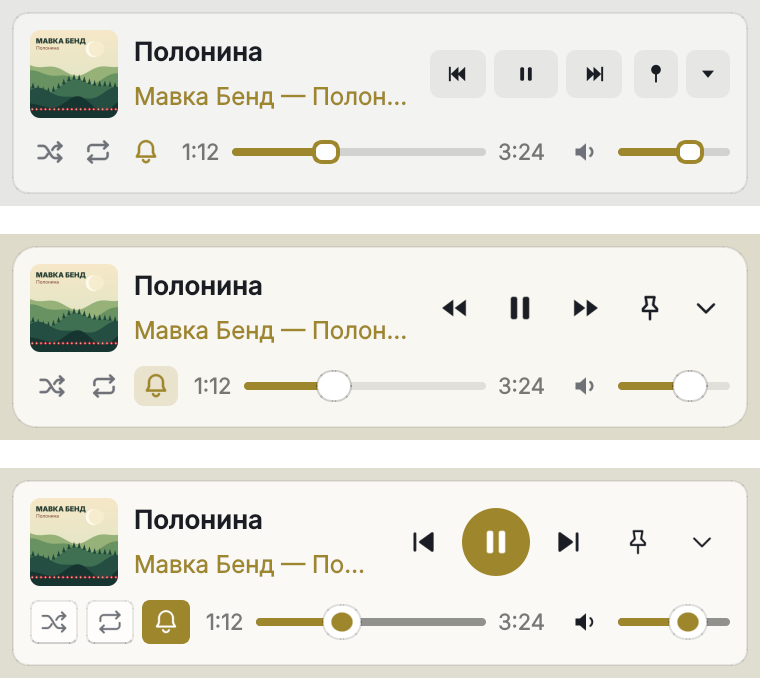
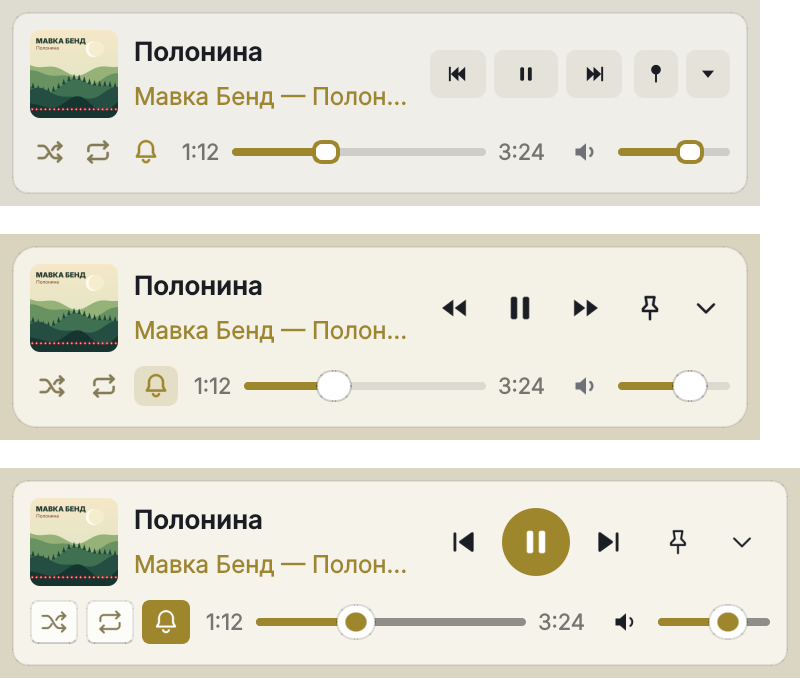
Cover colour is clearly visible again in the window and the playlist (without Mica), skin screenshots updated
Claude-Session: https://claude.ai/code/session_01HZx8mLPDwnePxQZhdkCTi1

diff --git a/docs/uk/index.html b/docs/uk/index.html
@@ -85,7 +85,7 @@
       <p class="aside soon">Нове у версії 1.6.</p>
       <a class="more" href="https://github.com/dkindratyuk-web/plativka/blob/main/docs/uk/desktop.md#скіни">Докладніше про скіни <svg class="ico-a" viewBox="0 0 24 24" aria-hidden="true"><path d="M5 12h14M13 6l6 6-6 6"/></svg></a>
     </div>
-    <figure><img src="../img/skins-mini.png" alt="Міні-плеєр у трьох скінах" width="760" height="678" loading="lazy"></figure>
+    <figure><img src="../img/skins-mini.png" alt="Міні-плеєр у трьох скінах" width="800" height="678" loading="lazy"></figure>
   </div>
 </section>
 

diff --git a/docs/index.html b/docs/index.html
@@ -85,7 +85,7 @@
       <p class="aside soon">New in version 1.6.</p>
       <a class="more" href="https://github.com/dkindratyuk-web/plativka/blob/main/docs/en/desktop.md#skins">More about skins <svg class="ico-a" viewBox="0 0 24 24" aria-hidden="true"><path d="M5 12h14M13 6l6 6-6 6"/></svg></a>
     </div>
-    <figure><img src="img/skins-mini.png" alt="Mini player in the three skins" width="760" height="678" loading="lazy"></figure>
+    <figure><img src="img/skins-mini.png" alt="Mini player in the three skins" width="800" height="678" loading="lazy"></figure>
   </div>
 </section>
 

diff --git a/src/plativka/gui.py b/src/plativka/gui.py
@@ -1944,19 +1944,20 @@ class MainWindow(QMainWindow, PlayerExtras, RemoteHost):
         # інакше картки, кнопки й список зливаються в одну пляму.
         if self.vibrancy:          # macOS: під цим шаром — розмиті шпалери, тож фон майже прозорий
             bg = tint("#1E1E20" if dark else "#EEECE8", .22, .14 if dark else .10)
-            card = tint("#2C2C30" if dark else "#FFFFFF", .07, .40 if dark else .48)
+            card = tint("#2C2C30" if dark else "#FFFFFF", .14, .40 if dark else .48)
         elif glass:                # Windows 11: Mica
             bg = tint("#202020" if dark else "#F3F3F3", .25, .18 if dark else .22)
             card = tint("#2B2B2B" if dark else "#FFFFFF", .10, .38 if dark else .55)
         elif sk == "mac":
-            bg = blend("#18191C" if dark else "#E7E5DF", .12 if dark else .11)
-            card = blend("#2A2C31" if dark else "#FCFBF8", .07 if dark else .035)
+            bg = blend("#18191C" if dark else "#E7E5DF", .17 if dark else .18)
+            card = blend("#2A2C31" if dark else "#FCFBF8", .10 if dark else .085)
         elif sk == "fluent":
-            bg = blend("#1C1C1C" if dark else "#E8E8E5", .10 if dark else .11)
-            card = blend("#2D2D2D" if dark else "#FDFDFC", .05 if dark else .035)
+            bg = blend("#1C1C1C" if dark else "#E8E8E5", .16 if dark else .18)
+            card = blend("#2D2D2D" if dark else "#FDFDFC", .09 if dark else .085)
         else:
-            bg = blend("#16181E" if dark else "#ECEFF4", .10 if dark else .08)
-            card = blend("#1E2129" if dark else "#F7F8FB", .06 if dark else .045)
+            # як на Windows з Mica: колір обкладинки помітний у фоні вікна й у самому списку
+            bg = blend("#16181E" if dark else "#ECEFF4", .17 if dark else .18)
+            card = blend("#1E2129" if dark else "#F7F8FB", .10 if dark else .09)
         stroke = "rgba(255,255,255,0.09)" if dark else "rgba(0,0,0,0.08)"
         lcd = QColor(acc)
         lcd.setAlpha(22 if dark else 18)
